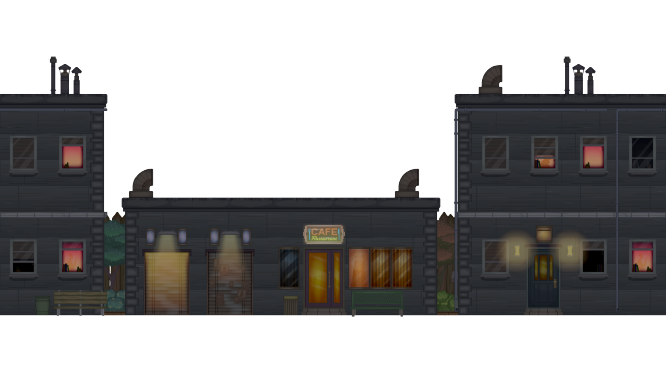
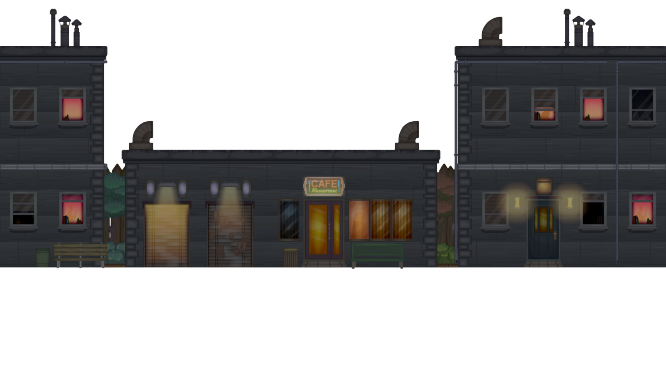
adjust y

diff --git a/models/world.class.js b/models/world.class.js
@@ -184,7 +184,7 @@ class World {
     isCollidingEnemies() {
         this.level.enemies.forEach((enemy) => {
             if (this.character.isColliding(enemy)) {
-                if (this.character.isAboveGround() && this.character.y == 320) {
+                if (this.character.isAboveGround() && this.character.y == 250) {
                     this.character.crushing_zombie_sound.play();
                     this.killZombie(enemy);
                 } else if (!enemy.isDead) {
@@ -315,7 +315,7 @@ class World {
         this.level.enemies[collidedObjectIndex].isDead = true;
         this.level.enemies[collidedObjectIndex].height = 40;
         this.level.enemies[collidedObjectIndex].width = 70;
-        this.level.enemies[collidedObjectIndex].y = 430;
+        this.level.enemies[collidedObjectIndex].y = 360;
         this.level.enemies[collidedObjectIndex].loadImage('img/enemies/dead.png');
     }
 

diff --git a/js/game.js b/js/game.js
@@ -37,7 +37,7 @@ function writeText(textContainer, textToWrite, index, speed) {
 function startTextEffect() {
     const textContainer = document.getElementById("referText");
     const textToWrite = "Click here for the game description and game instructions.";
-    const speed = 50;
+    const speed = 90;
     let index = 0;
 
     writeText(textContainer, textToWrite, index, speed);
@@ -69,7 +69,7 @@ function addReferTextAudio() {
     const textContainer = document.getElementById("referText");
     textContainer.innerHTML = '';
     const textToWrite = "Click here to turn the background music on or off.";
-    const speed = 50;
+    const speed = 90;
     let index = 0;
 
     styleReferContainer(textContainer);

diff --git a/models/movable-object.class.js b/models/movable-object.class.js
@@ -53,7 +53,7 @@ class MovableObject extends DrawableObject {
 
 
     applyGravity() {
-        this.y = 290;
+        this.y = 220;
         this.setStoppableInterval(this.gravity, 1000 / 25);
     }
 
@@ -67,7 +67,7 @@ class MovableObject extends DrawableObject {
 
 
     isAboveGround() {
-        return this.y < 390;
+        return this.y < 320;
     }
 
 

diff --git a/models/character.class.js b/models/character.class.js
@@ -206,7 +206,7 @@ class Character extends MovableObject {
     isDyingSettings() {
         this.height = 50;
         this.width = 70;
-        this.y = 420;
+        this.y = 350;
         this.setGameOver();
         this.imageLength = 4;
         this.playOnce(this.IMAGES_DYING, this.imageLength);

diff --git a/models/runningZombie.class.js b/models/runningZombie.class.js
@@ -1,7 +1,7 @@
 class RunningZombie extends MovableObject {
     height = 100;
     width = 70;
-    y = 370;
+    y = 300;
     speed = 1.5;
     isDead = false;
 

diff --git a/models/lives.class.js b/models/lives.class.js
@@ -1,5 +1,5 @@
 class Lives extends CollectableObject {
-    y = 380;
+    y = 310;
     shift = -1;
     minY = this.y - 10; 
     maxY = this.y + 10; 

diff --git a/models/ammunition.class.js b/models/ammunition.class.js
@@ -1,6 +1,6 @@
 class Ammunition extends CollectableObject {
     width = 60;
-    y = 280;
+    y = 210;
 
     shift = -1;
     minY = this.y - 10;

diff --git a/models/zombie.class.js b/models/zombie.class.js
@@ -1,7 +1,7 @@
 class Zombie extends MovableObject {
     height = 100;
     width = 70;
-    y = 370;
+    y = 300;
     isDead = false;
 
 

diff --git a/models/endboss.class.js b/models/endboss.class.js
@@ -1,7 +1,7 @@
 class Endboss extends MovableObject {
     height = 200;
     width = 120;
-    y = 270;
+    y = 200;
 
 
     offset = {
